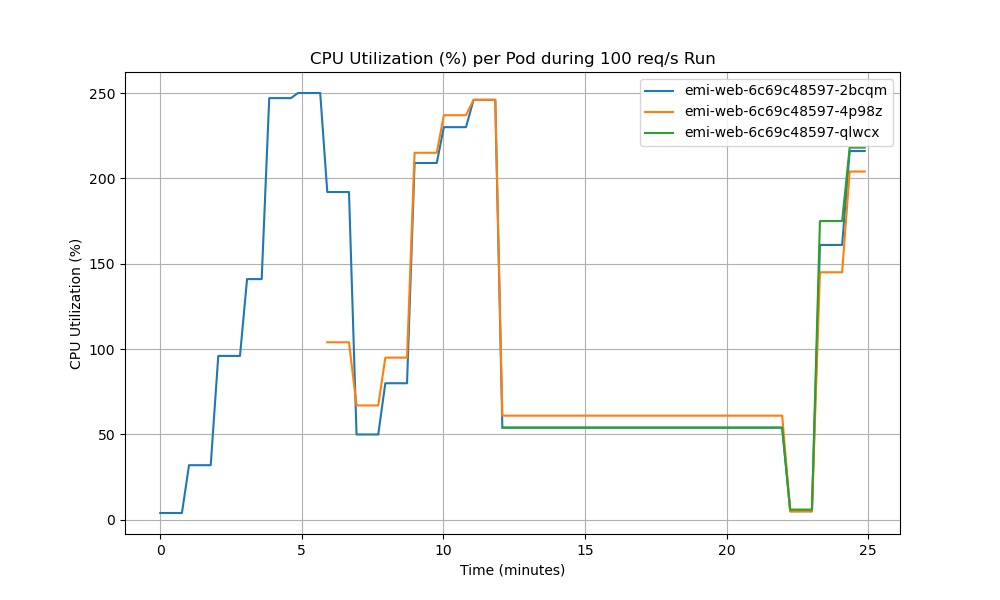
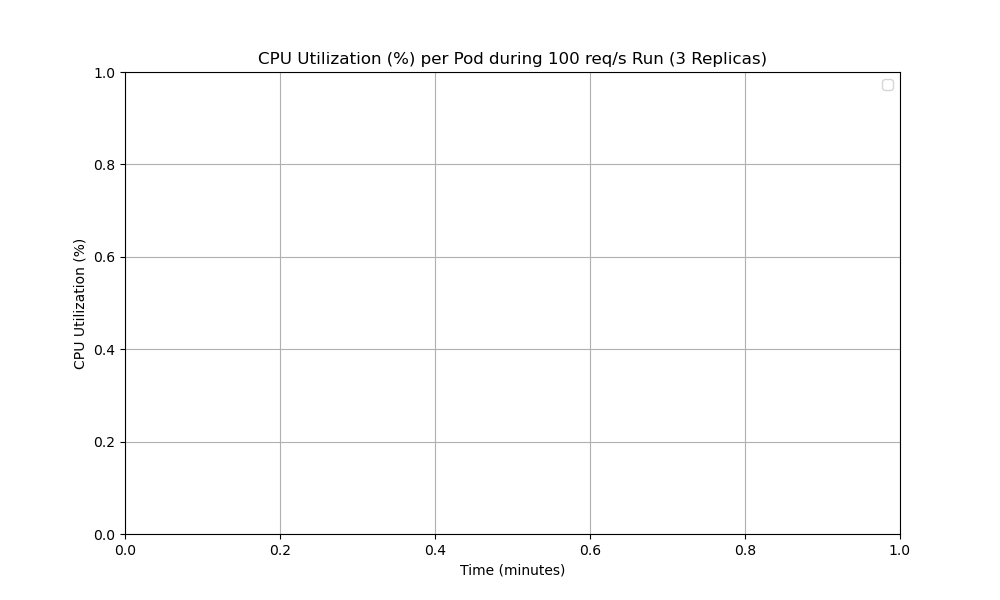
Fix Graph 2 to show only the 60s window with markers

diff --git a/scripts/plot_graphs.py b/scripts/plot_graphs.py
@@ -5,7 +5,7 @@ import os
 base_dir = os.path.expanduser('~/assignment4/results')
 raw_dir = os.path.join(base_dir, 'm4_raw')
 
-# Graph 1 (Waise hi rahega)
+# Graph 1
 try:
     summary_path = os.path.join(base_dir, 'summary.csv')
     df_sum = pd.read_csv(summary_path)
@@ -24,12 +24,15 @@ try:
 except Exception as e:
     print(f"Error creating Graph 1: {e}")
 
-# Graph 2 (Bina kisi filter ke, jaisa aap chahti hain)
+# Graph 2 (Sirf 100 req/s aur 3 replicas wale 60 seconds ka data)
 try:
     metrics_path = os.path.join(raw_dir, 'cpu_memory_metrics.csv')
     df_metrics = pd.read_csv(metrics_path)
     start_time = df_metrics['timestamp'].min()
     df_metrics['time_min'] = (df_metrics['timestamp'] - start_time) / 60.0
+    
+    # Sirf us specific 1 minute ka data filter kar rahe hain (17 se 18 minute ke beech)
+    df_metrics = df_metrics[(df_metrics['time_min'] >= 17.0) & (df_metrics['time_min'] <= 18.0)]
     
     df_metrics['cpu_val'] = df_metrics['cpu'].str.replace('m', '').astype(float)
     df_metrics['cpu_pct'] = (df_metrics['cpu_val'] / 100.0) * 100 
@@ -37,8 +40,10 @@ try:
     plt.figure(figsize=(10, 6))
     for pod in df_metrics['pod_name'].unique():
         pod_data = df_metrics[df_metrics['pod_name'] == pod]
-        plt.plot(pod_data['time_min'], pod_data['cpu_pct'], label=pod)
-    plt.title('CPU Utilization (%) per Pod over Time')
+        # marker='o' ka matlab hai ke graph par dots (points) nazar aayenge
+        plt.plot(pod_data['time_min'], pod_data['cpu_pct'], marker='o', label=pod)
+        
+    plt.title('CPU Utilization (%) per Pod during 100 req/s Run (3 Replicas)')
     plt.xlabel('Time (minutes)')
     plt.ylabel('CPU Utilization (%)')
     plt.legend()
@@ -49,13 +54,12 @@ try:
 except Exception as e:
     print(f"Error creating Graph 2: {e}")
 
-# Graph 3 (Sirf isme Request Rate ki line add ki gayi hai)
+# Graph 3
 try:
     hpa_path = os.path.join(raw_dir, 'hpa_metrics.csv')
     df_hpa = pd.read_csv(hpa_path)
     fig, ax1 = plt.subplots(figsize=(12, 6))
     
-    # Request Rate Data (2 min 10 req, 5 min 100 req, 3 min 10 req)
     time_axis = [0, 2, 2, 7, 7, 10]
     req_line = [10, 10, 100, 100, 10, 10]
     
